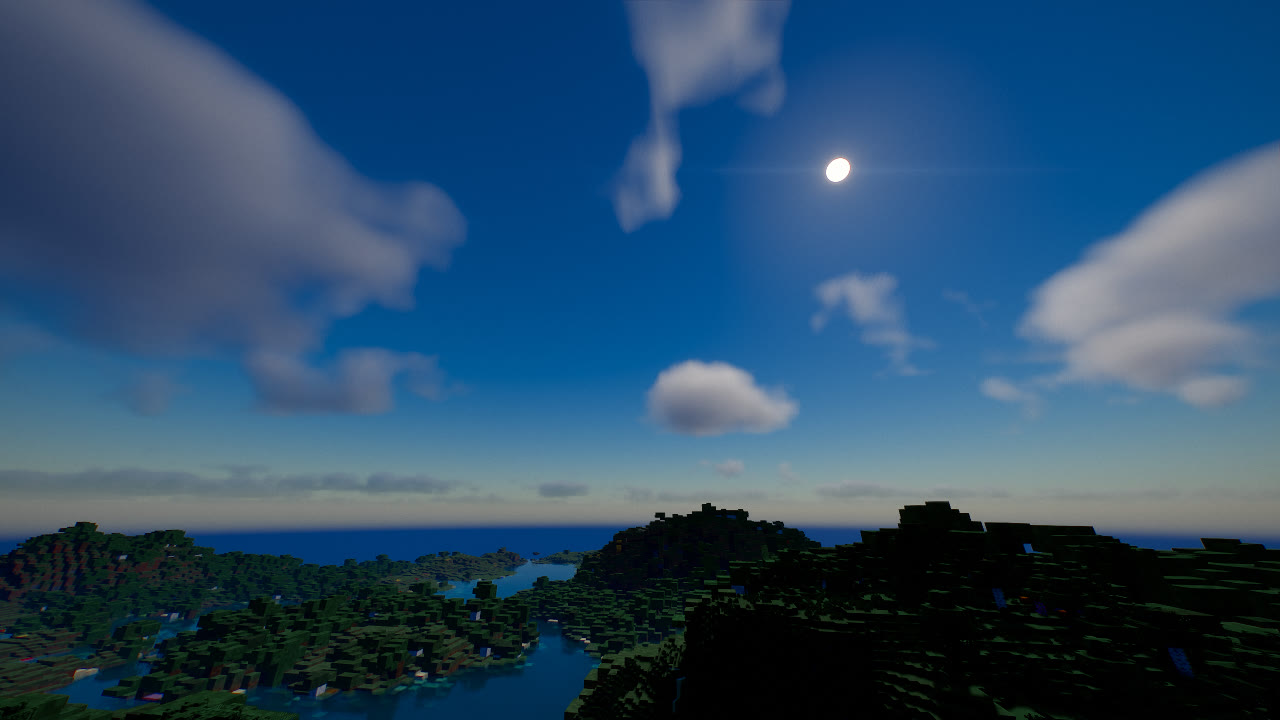
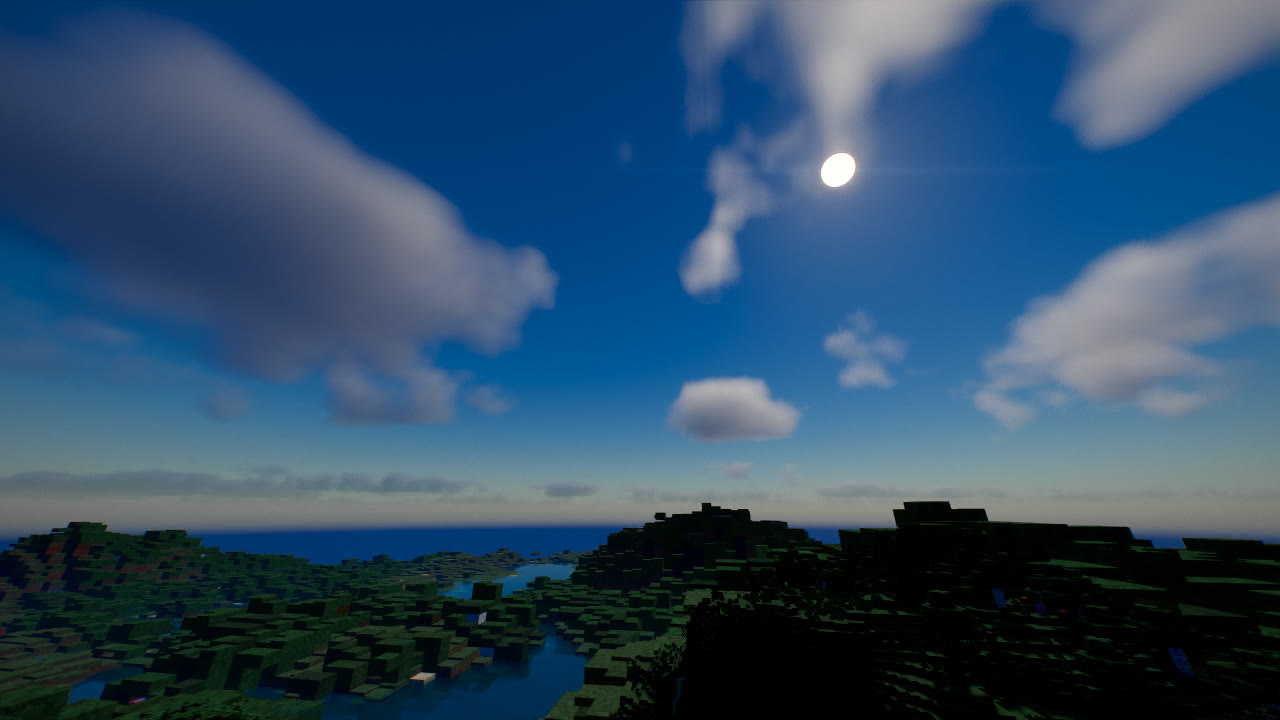
v0.7: larger sun and moon, English README with updated screenshots

diff --git a/README.md b/README.md
@@ -1,170 +1,171 @@
 # 🎬 ChopzCinema Shaders
 
-**Cineastischer Shader für Minecraft 1.20.1, gemacht für Oculus/Iris und Distant Horizons.**
+**A cinematic shaderpack for Minecraft 1.20.1, made for Oculus/Iris and Distant Horizons.**
 
-ChopzCinema soll Minecraft wie einen Kinofilm aussehen lassen: starkes Licht- und Schattenspiel, ein Film-Look mit tintenschwarzen Schatten und satten Farben wie in modernen Blockbustern, volumetrische Wolken, Nebel, Lichtstrahlen, ein echter Sternenhimmel mit Polarlichtern und Regen, der sich nach Film anfühlt.
+ChopzCinema aims to make Minecraft look like a feature film: strong light and shadow, a film look with inky blacks and rich colours like a modern blockbuster, volumetric clouds, fog, god rays, a real starry sky with northern lights, and rain that feels like a movie scene.
 
-> **Status:** v0.6, Entwicklungsversion. Im Spiel getestet mit Forge 47.4.20, Oculus 1.8.0, Embeddium 0.3.31 und Distant Horizons 3.2.0 in einer generierten Welt. Alle Screenshots unten stammen direkt aus diesem Test.
+> **Status:** v0.7, in development. Tested in-game with Forge 47.4.20, Oculus 1.8.0, Embeddium 0.3.31 and Distant Horizons 3.2.0 in a freshly generated world. Every screenshot below was taken during that test.
 
 ---
 
 ## Screenshots
 
-*Alle Bilder sind echte Ingame-Screenshots (F2) mit dem Standardprofil, Distant Horizons ist aktiv.*
+*All images are real in-game screenshots (F2) with the default profile and Distant Horizons enabled.*
 
-![Sonnenuntergang über dem Tal](docs/screenshots/sunset.jpg)
-*Sonnenuntergang: Nebel im Tal, angestrahlte Wolken, Filmkurve „Brand New Day“*
+![Sunset over the valley](docs/screenshots/sunset.jpg)
+*Sunset: mist in the valley, lit clouds, "Brand New Day" film grade*
 
 | | |
 |---|---|
-| ![Tag](docs/screenshots/day.jpg) | ![Fernsicht mit Distant Horizons](docs/screenshots/dh_far.jpg) |
-| **Tag**: harte Sonne, tiefe Schatten | **Fernsicht mit Distant Horizons**: LODs bis zum Horizont |
-| ![Wald](docs/screenshots/forest.jpg) | ![Gewitter](docs/screenshots/storm.jpg) |
-| **Wald am Morgen**: Schärfentiefe, Lens Flare | **Gewitter**: Regenschlieren, Regenschleier, Filmstimmung |
-| ![Polarlichter](docs/screenshots/aurora.jpg) | ![Nachthimmel](docs/screenshots/night_sky.jpg) |
-| **Polarlichter** (in manchen Nächten) | **Nachthimmel**: runder Mond mit Phasen, Sterne, Polarlichter |
-| ![Unter Wasser](docs/screenshots/underwater.jpg) | ![Nether](docs/screenshots/nether.jpg) |
-| **Unter Wasser**: Lichtstrahlen durch die Wellen | **Nether**: Lavasee, aufsteigender Rauch, tintenschwarze Schatten |
-| ![Sonne](docs/screenshots/sun.jpg) | |
-| **Runde Sonne** mit weicher Korona | |
+| ![Day](docs/screenshots/day.jpg) | ![Distant Horizons view](docs/screenshots/dh_far.jpg) |
+| **Day**: hard sunlight, deep shadows | **Distant Horizons**: LODs all the way to the horizon |
+| ![Forest](docs/screenshots/forest.jpg) | ![Thunderstorm](docs/screenshots/storm.jpg) |
+| **Forest in the morning**: depth of field, lens flare | **Thunderstorm**: rain streaks, rain curtains, film mood |
+| ![Northern lights](docs/screenshots/aurora.jpg) | ![Night sky](docs/screenshots/night_sky.jpg) |
+| **Northern lights** (on some nights) | **Night sky**: round moon with phases, stars |
+| ![Underwater](docs/screenshots/underwater.jpg) | ![Nether](docs/screenshots/nether.jpg) |
+| **Underwater**: light shafts through the waves | **Nether**: lava lake, rising smoke, inky shadows |
+| ![Sun](docs/screenshots/sun.jpg) | ![Full moon](docs/screenshots/moon.jpg) |
+| **Round sun** with a soft corona | **Full moon** with craters and maria |
 
 ---
 
 ## Features
 
-### 🎥 Kamera & Film
-- **Filmkurve** zur Auswahl: AgX Punchy (Standard), ACES oder Uchimura
-- **Color Grading „Brand New Day“** (Standard), inspiriert vom Look von *Spider-Man: Brand New Day*: klassische Filmkopie-Kurve, **tintenschwarze Schatten**, satte Rot- und Blautöne, zurückhaltendes Grün, kühle Schatten und warme Lichter
-- Weitere Gradings: *Blockbuster* (Teal & Orange), *Düster*, *Goldene Stunde*, *Neutral*
-- **Schärfentiefe** wie bei einer Kinokamera (Fokus auf die Bildmitte, nahe Objekte oder der Hintergrund werden weich)
-- Bloom mit rötlichem Film-Glühen (Halation), **anamorphotischer Lens Flare** mit Sonnen-Verdeckungstest
-- Vignette, Filmkorn, leichte chromatische Aberration, optionale **Kinobalken** (2.39:1 / 1.85:1)
-- **TAA** mit Nachschärfen und **automatische Belichtung**, die Nächte bewusst dunkel lässt
+### 🎥 Camera & Film
+- **Film curve** options: AgX Punchy (default), ACES or Uchimura
+- **"Brand New Day" colour grade** (default), inspired by the look of *Spider-Man: Brand New Day*: classic print film curve, **inky blacks**, saturated reds and blues, restrained greens, cool shadows and warm highlights
+- Other grades: *Blockbuster* (teal & orange), *Moody*, *Golden Hour*, *Neutral*
+- **Depth of field** like a cinema camera (focus on the centre of the screen, close objects or the background go soft)
+- Bloom with reddish film halation, **anamorphic lens flare** with a sun occlusion test
+- Vignette, film grain, subtle chromatic aberration, optional **letterbox** (2.39:1 / 1.85:1)
+- **TAA** with sharpening and **auto exposure** that deliberately keeps nights dark
 
-### ☀ Licht & Schatten
-- Weiche Schatten, die mit dem Abstand zum Schattenwerfer weicher werden (Vogel-PCF)
-- **Farbige Schatten** durch Buntglas
-- Durchscheinende Blätter und Gras im Gegenlicht (Subsurface Scattering)
-- Warmes Fackellicht, die Farbtemperatur ist in Kelvin einstellbar
-- Glanzlichter auf Metall und polierten Blöcken
+### ☀ Light & Shadow
+- Soft shadows that get softer the further they fall from the caster (Vogel PCF)
+- **Coloured shadows** through stained glass
+- Translucent leaves and grass when backlit (subsurface scattering)
+- Warm torch light with an adjustable colour temperature in Kelvin
+- Specular highlights on metal and polished blocks
 
-### 🌅 Himmel & Atmosphäre
-- **Physikalischer Himmel** (Rayleigh, Mie und Ozon) mit echten Sonnenauf- und -untergängen
-- **Volumetrische Wolken** mit Silberrändern, bei Regen dichter und dunkler
-- **Höhennebel**, Dunst in der Ferne und **Morgen- und Abendnebel** über dem Boden
-- **Lichtstrahlen (God Rays)** im Nebel mit echten Schatten
+### 🌅 Sky & Atmosphere
+- **Physically based sky** (Rayleigh, Mie and ozone) with real sunrises and sunsets
+- **Volumetric clouds** with silver linings that get denser and darker in rain
+- **Height fog**, distant haze and **morning/evening mist** near the ground
+- **God rays** in the fog with real shadows
 
-### 🌌 Nachthimmel
-- Dunkler Sternenhimmel mit drei Sternebenen, unterschiedlichen Farbtemperaturen und Funkeln
-- **Milchstraße** mit Staubbändern und Nebelflecken
-- Die Sterne drehen sich mit dem Himmel
-- **Runde Sonne** mit Randverdunklung und Korona, **runder Mond** mit Kratern und den echten Mondphasen (statt der eckigen Vanilla-Texturen)
-- **Sternschnuppen**
-- **Polarlichter** in etwa 30 % der Nächte (einstellbar), sie spiegeln sich auch im Wasser
+### 🌌 Night Sky
+- Dark starry sky with three star layers, different colour temperatures and twinkling
+- **Milky Way** with dust lanes and nebula patches
+- The stars rotate with the sky
+- **Round sun** with limb darkening and corona, **round moon** with craters and the real moon phases (instead of the blocky vanilla textures)
+- **Shooting stars**
+- **Northern lights** on about 30% of nights (adjustable), also reflected in water
 
-### 🌧 Regen
-- Dünne, fast durchsichtige Regenschlieren, die im Gegenlicht leuchten und an Fackeln warm werden
-- **Nasse Oberflächen und Pfützen** mit Spiegelungen
-- **Regentropfen-Ringe** auf Pfützen und Wasser
-- **Regenschleier**, die in der Ferne vorbeiziehen
-- **Blitze** erhellen Himmel, Wolken und Landschaft
-- Automatische **Regen-Filmstimmung**: kühler, entsättigter, etwas mehr Kontrast
+### 🌧 Rain
+- Thin, almost transparent rain streaks that glow when backlit and turn warm near torches
+- **Wet surfaces and puddles** with reflections
+- **Raindrop ripples** on puddles and water
+- **Rain curtains** drifting through the distance
+- **Lightning** lights up the sky, clouds and landscape
+- Automatic **rainy film mood**: cooler, less saturated, a little more contrast
 
-### 🌊 Wasser
-- Prozedurale Wellen, Lichtbrechung und Absorption, also klares Wasser, das mit der Tiefe blaugrün wird
-- Screen-Space-Reflexionen mit Himmel als Rückfall und Sonnenglitzern
-- **Kaustiken**: das bewegte Lichtnetz am Grund
-- **Lichtstrahlen unter Wasser**, die aus den Wellen entstehen. Boote und Terrain werfen Schatten in die Strahlen.
+### 🌊 Water
+- Procedural waves, refraction and absorption: clear water that turns blue-green with depth
+- Screen-space reflections with sky fallback and sun glitter
+- **Caustics**: the moving web of light on the bottom
+- **Underwater light shafts** formed by the waves. Boats and terrain cast shadows into the shafts.
 
-### 🔥 Hitze
-- **Hitzeflimmern** steigt über Lava, Feuer, Magma, Lagerfeuern und Öfen auf
-- **Nether-Rauch**: volumetrischer, langsam aufsteigender Rauch, von unten orange angestrahlt (ähnlich dem „Nether Storm“ in Complementary Unbound)
-- **Wogende Lava**: die Lavaoberfläche bewegt sich langsam
-- Im Nether flimmert die Ferne, und der Nebel über dem Lavameer glüht orange
+### 🔥 Heat
+- **Heat shimmer** rising above lava, fire, magma, campfires and furnaces
+- **Nether smoke**: volumetric, slowly rising smoke lit orange from below (similar to the "Nether Storm" in Complementary Unbound)
+- **Waving lava**: the lava surface slowly heaves
+- In the Nether the distance shimmers and the fog above the lava ocean glows orange
 
 ### 🏔 Distant Horizons
-- LODs bekommen dieselbe Beleuchtung, denselben Nebel, dieselben Wolken und dasselbe TAA
-- Weicher, gedithereter Übergang zwischen normalen Chunks und LODs
-- Ferne Berge verschwinden im Dunst
+- LODs get the same lighting, fog, clouds and TAA
+- Soft, dithered transition between regular chunks and LODs
+- Distant mountains fade into the haze
 
 ---
 
 ## Installation
 
-1. Die neueste `ChopzCinema-vX.Y.zip` unter [Releases](../../releases) herunterladen.
-2. Die ZIP **nicht entpacken**, sondern nach `.minecraft/shaderpacks/` legen.
-3. Im Spiel: *Optionen → Grafik → Shader-Pakete → ChopzCinema*.
-4. Im Shader-Menü ein Profil wählen: **LOW / MEDIUM / HIGH / ULTRA** (Standard: HIGH).
+1. Download the latest `ChopzCinema-vX.Y.zip` from [Releases](../../releases).
+2. **Don't unzip it.** Put the ZIP into `.minecraft/shaderpacks/`.
+3. In game: *Options → Video Settings → Shader Packs → ChopzCinema*.
+4. Pick a profile in the shader menu: **LOW / MEDIUM / HIGH / ULTRA** (default: HIGH).
 
-### Kompatibilität
+### Compatibility
 | | Version |
 |---|---|
 | Minecraft | 1.20.1 |
-| Forge | Oculus 1.8.0+ und Embeddium |
-| Fabric | Iris 1.7+ und Sodium |
+| Forge | Oculus 1.8.0+ with Embeddium |
+| Fabric | Iris 1.7+ with Sodium |
 | Distant Horizons | 2.2+ / 3.x (optional) |
-| OptiFine | nicht unterstützt (kein DH-Support) |
+| OptiFine | not supported (no DH support) |
 
-### Tipps
-- Für das echte Kino-Format **Kinobalken 2.39:1** unter *Kamera & Film* einschalten.
-- Ist die Schärfentiefe zu stark oder zu schwach, kann sie unter *Kamera & Film → Stärke der Schärfentiefe* angepasst werden.
+### Tips
+- For the real cinema format, enable **Letterbox 2.39:1** under *Camera & Film*.
+- If the depth of field is too strong or too weak, adjust it under *Camera & Film → Depth of Field Strength*.
+- Sun and moon size can be changed under *Night Sky*.
 
-### Performance-Tipps
-- Die größten Stellschrauben sind **Schattenauflösung**, **Wolkenqualität** und **Lichtstrahlen-Qualität**.
-- Wolken und Lichtstrahlen werden ohnehin in halber Auflösung berechnet.
-- Mit Distant Horizons kostet vor allem die LOD-Distanz selbst. Der Shader-Aufwand pro Pixel bleibt gleich.
+### Performance tips
+- The biggest levers are **shadow resolution**, **cloud quality** and **god ray quality**.
+- Clouds, god rays and Nether smoke already render at half resolution.
+- With Distant Horizons, most of the cost comes from the LOD distance itself. The per-pixel shader cost stays the same.
 
 ---
 
-## Einstellungen
+## Settings
 
-Das Menü gibt es auf **Deutsch** und Englisch:
+The menu is available in **English** and **German**:
 
-| Seite | Inhalt |
+| Page | Contents |
 |---|---|
-| Kamera & Film | Belichtung, Filmkurve, Grading, Bloom, Lens Flare, Schärfentiefe, Vignette, Korn, Kinobalken, TAA |
-| Himmel, Wolken & Nebel | Wolken (Qualität, Höhe, Dicke, Bedeckung), Lichtstrahlen, Nebel, Morgennebel, Höhlennebel |
-| Nachthimmel | runde Sonne & Mond (Größe), Sterne, Milchstraße, Sternschnuppen, Polarlichter (aus / manche Nächte / jede Nacht) |
-| Beleuchtung | Sonne, Himmelslicht, Nacht, Fackellicht und Farbtemperatur |
-| Schatten | Auflösung, Distanz, Weichheit, farbige Schatten, Sonnenwinkel |
-| Wasser & Reflexionen | Wellen, Klarheit, Kaustiken, Unterwasser-Strahlen, Reflexionen |
-| Regen | Regenschlieren, Tropfen-Ringe, Pfützen, Regenschleier, Blitze, Filmstimmung |
-| Hitze | Hitzeflimmern, Nether-Flimmern, Lava-Glühen, Nether-Rauch, wogende Lava |
-| Wind | wehende Pflanzen und Blätter |
+| Camera & Film | Exposure, film curve, grade, bloom, lens flare, depth of field, vignette, grain, letterbox, TAA |
+| Sky, Clouds & Fog | Clouds (quality, height, thickness, coverage), god rays, fog, morning mist, cave fog |
+| Night Sky | Round sun & moon (size), stars, Milky Way, shooting stars, northern lights (off / some nights / every night) |
+| Lighting | Sun, sky light, night, torch light and colour temperature |
+| Shadows | Resolution, distance, softness, coloured shadows, sun angle |
+| Water & Reflections | Waves, clarity, caustics, underwater rays, reflections |
+| Rain | Rain streaks, raindrop ripples, puddles, rain curtains, lightning, film mood |
+| Heat | Heat shimmer, Nether shimmer, lava glow, Nether smoke, waving lava |
+| Waving | Waving plants and leaves |
 
 ---
 
-## Technik
+## Technical overview
 
 ```
-shadow      → Shadow Map (+ Wasseroberfläche für Kaustiken)
-gbuffers    → G-Buffer (Albedo, Normalen, Lightmap, Material) – auch dh_terrain
-deferred    → volumetrische Wolken (½ Auflösung)
-deferred1   → Beleuchtung, Himmel, Sterne, Polarlichter, Wolken
-forward     → Wasser, Glas, Partikel, Regen, Hand
-composite   → Lichtbrechung, Wasser-Absorption, Reflexionen, Pfützen
-composite1  → Lichtstrahlen / Unterwasser-Strahlen (½ Auflösung)
-composite2  → Nebel, Regenschleier, Nether-Glühen
-composite3  → TAA + Auto-Belichtung
-final       → Hitzeflimmern, Schärfentiefe, Bloom, Lens Flare, Filmkurve, Grading, Film-Effekte
+shadow      → shadow map (+ water surface for caustics)
+gbuffers    → G-buffer (albedo, normals, lightmap, material) – including dh_terrain
+deferred    → volumetric clouds (½ resolution)
+deferred1   → lighting, sky, sun & moon, stars, northern lights, clouds
+forward     → water, glass, particles, rain, hand
+composite   → refraction, water absorption, reflections, puddles
+composite1  → god rays / underwater rays / Nether smoke (½ resolution)
+composite2  → fog, rain curtains, Nether glow
+composite3  → TAA + auto exposure
+final       → heat shimmer, depth of field, bloom, lens flare, film curve, grade, film effects
 ```
 
 ```
 shaders/
-  shaders.properties   Menü, Profile, Blend-Modi
-  block.properties     Material-IDs (Blätter, Glas, Metall, Lichtquellen, Lava, …)
-  lib/                 gemeinsamer Code (Himmel, Nachthimmel, Wolken, Nebel, Regen, Wasser, Licht, Post)
-  program/             Programme
-  world0|world-1|world1 automatisch erzeugte Wrapper je Dimension
-  lang/                Deutsch / Englisch
-tools_gen_wrappers.py  erzeugt die Wrapper neu
+  shaders.properties   menu, profiles, blend modes
+  block.properties     material ids (leaves, glass, metal, light sources, lava, …)
+  lib/                 shared code (sky, night sky, clouds, fog, rain, water, lighting, post)
+  program/             programs
+  world0|world-1|world1 generated per-dimension wrappers
+  lang/                English / German
+tools_gen_wrappers.py  regenerates the wrappers
 ```
 
 ---
 
 ## Feedback
 
-Probleme bitte als Issue melden und dazu anhängen:
+Please report problems as an issue and attach:
 - `.minecraft/logs/latest.log`
-- Screenshot(s)
-- verwendetes Profil und Grafikkarte
+- screenshot(s)
+- the profile you used and your graphics card
